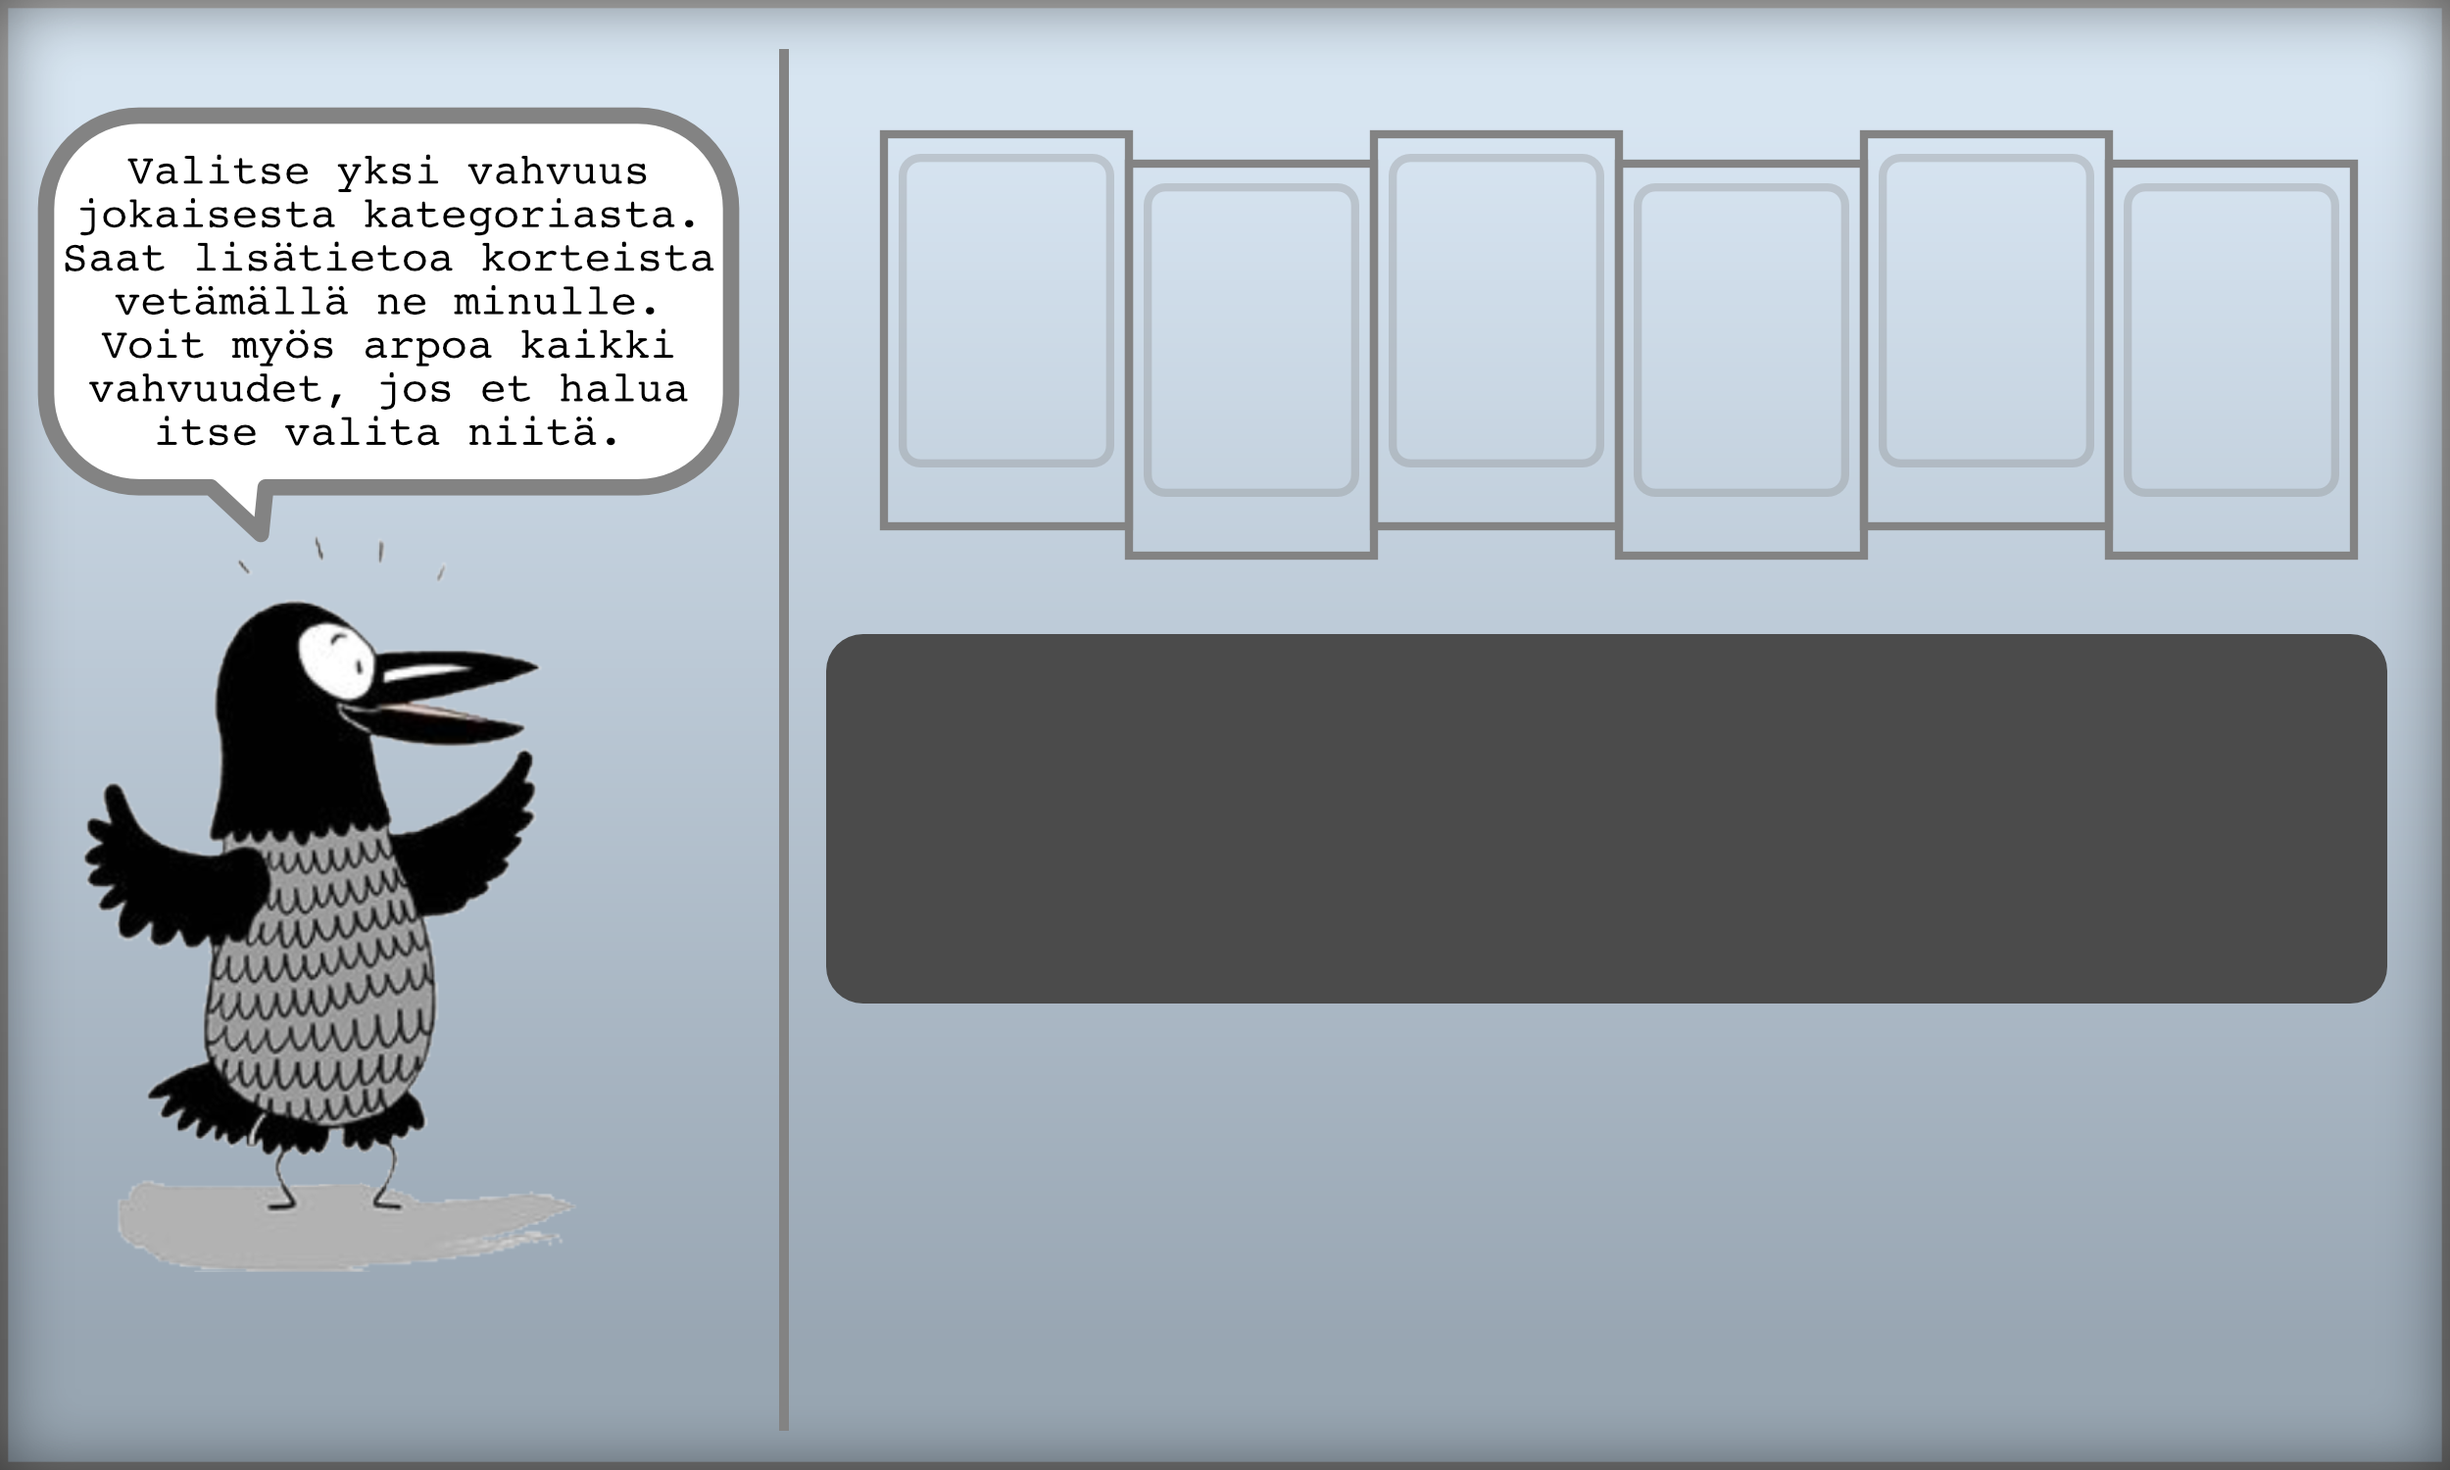
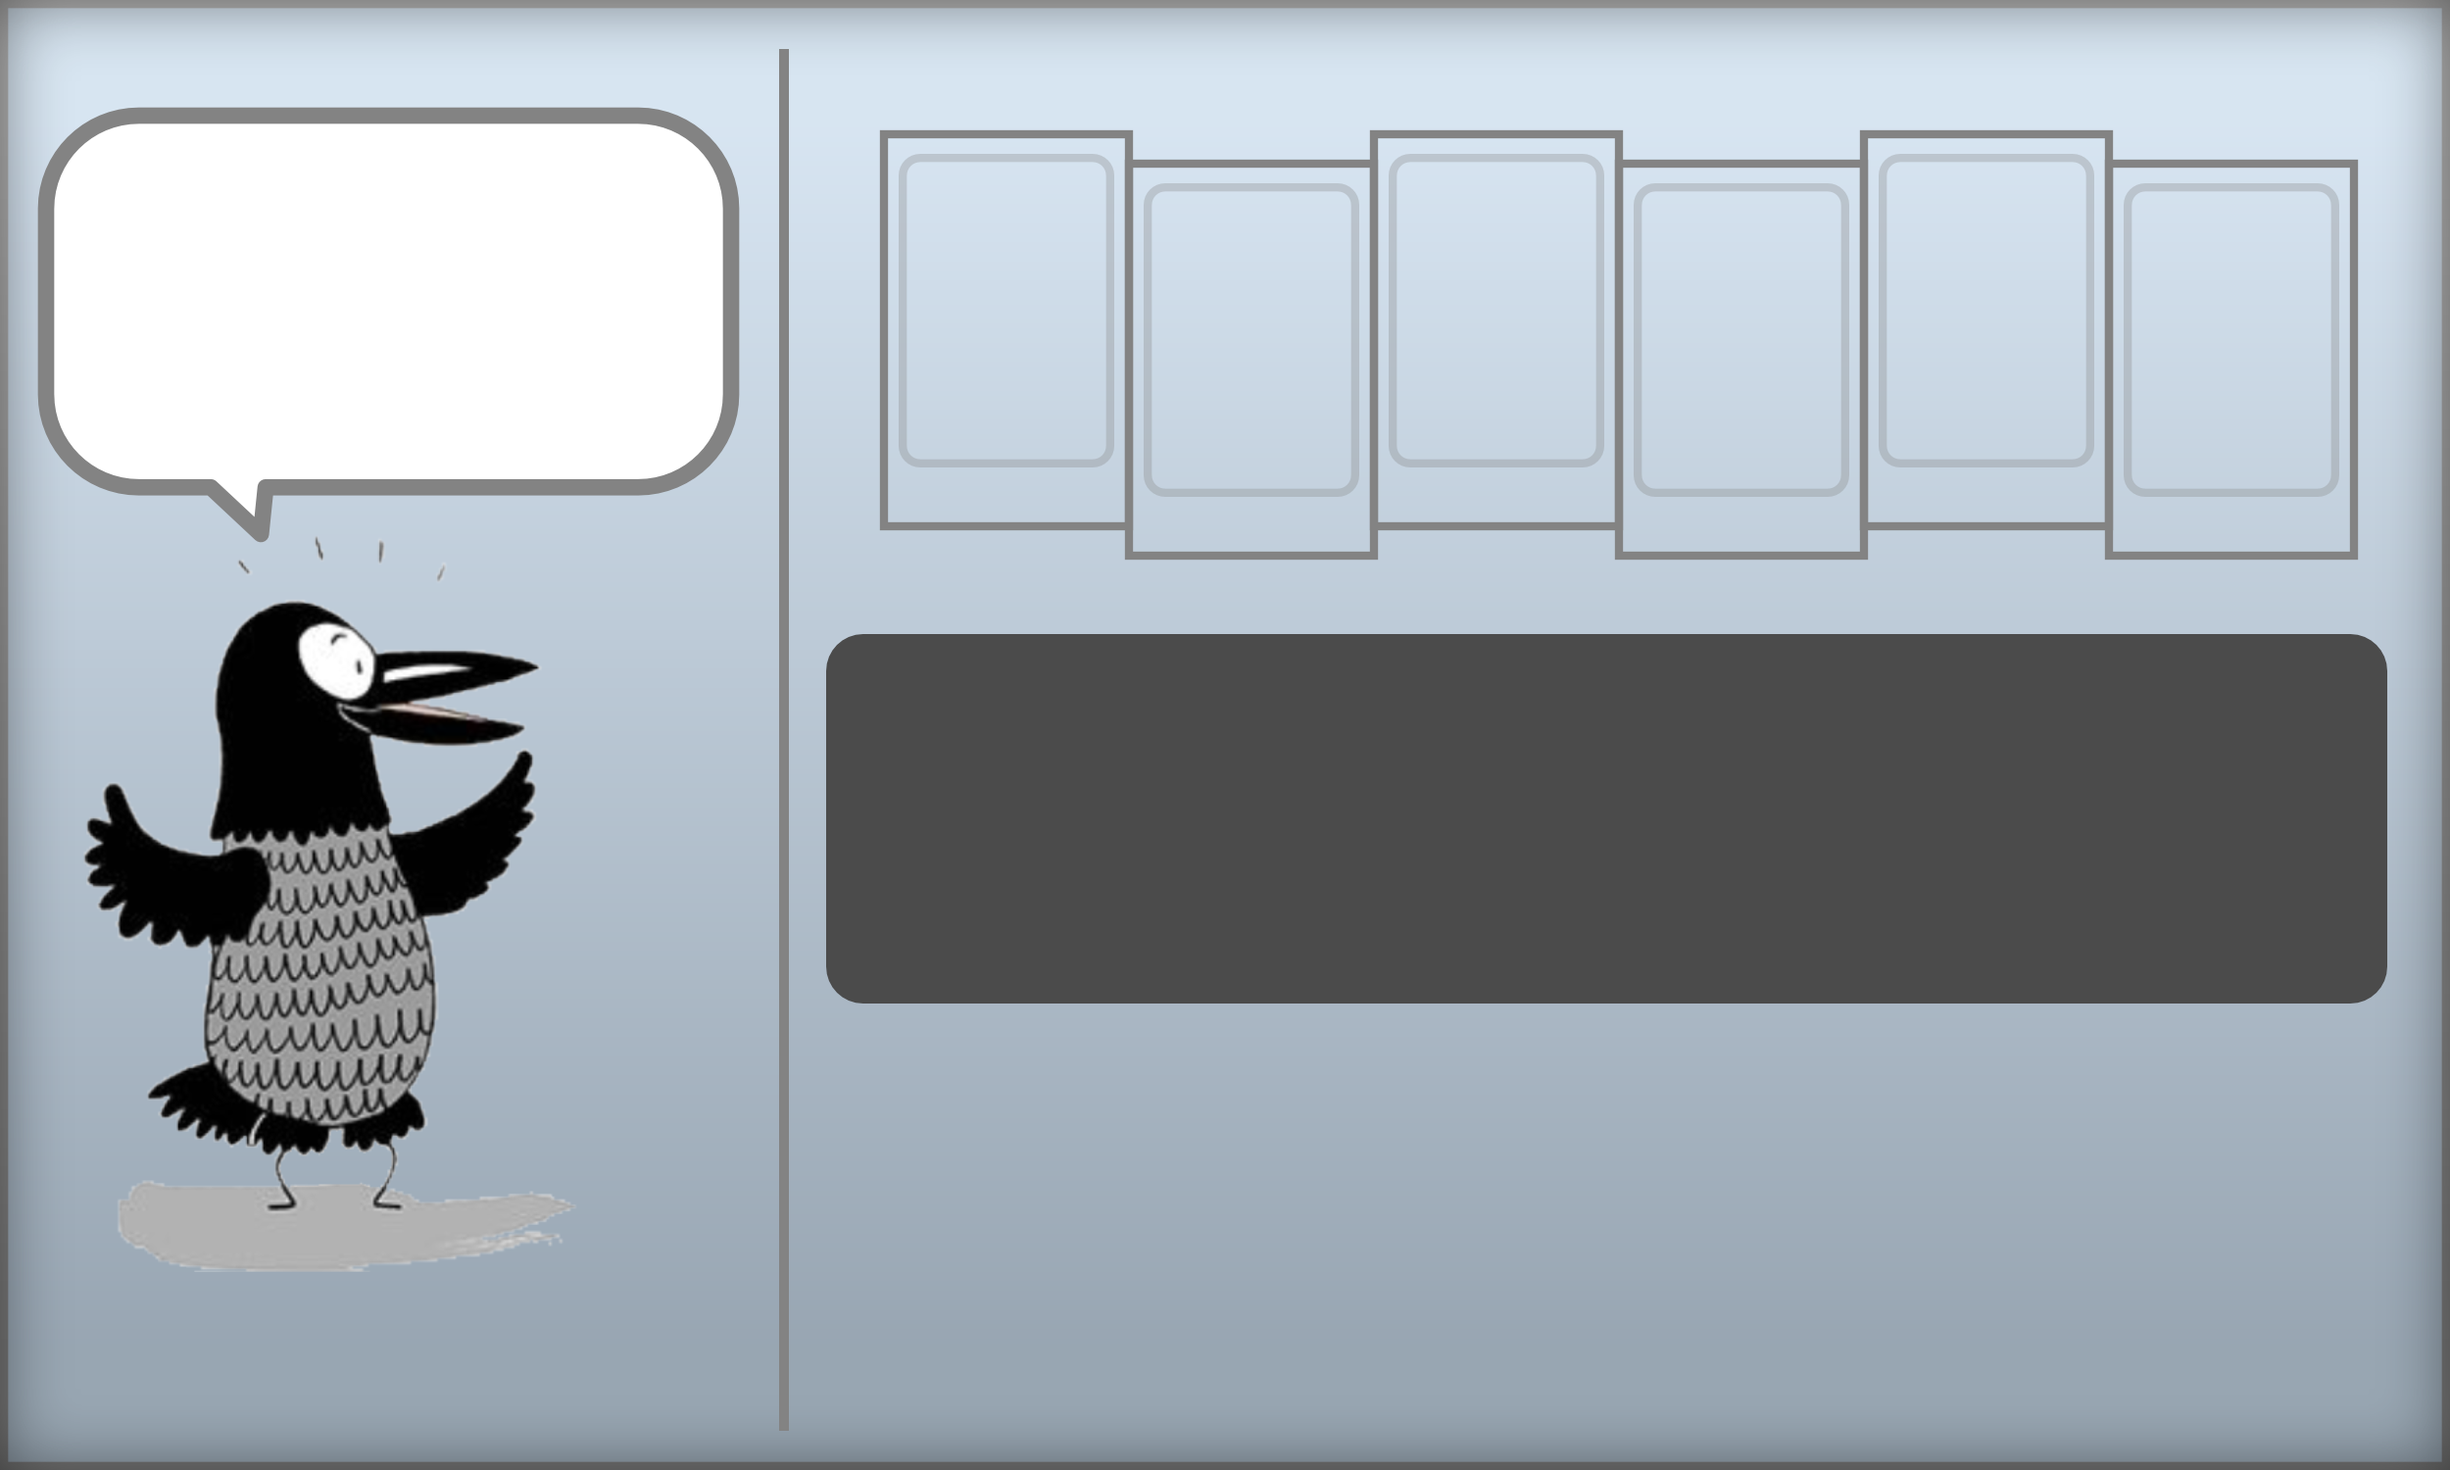
strength infos added

Changed region(s): [[0.0312, 0.092, 0.2808, 0.3067]]

diff --git a/const.py b/const.py
@@ -157,37 +157,37 @@ phrase = [
      "Sinulla on 5 minuuttia aikaa etsiä\njoka kerroksessa. Muista palata takaisin\nhissille ennen kuin on liian myöhäistä!", # 68
      "Tallenna ja\npalaa päävalikkoon", # 69
      "Haluatko palata päävalikkoon?\nTämä pelisuoritus poistetaan.", # 70
-     "", # 71
+     "Valitse yksi vahvuus\n jokaisesta kategoriasta.\nSaat lisätietoa korteista\nvetämällä ne minulle.\nVoit myös arpoa kaikki\nvahvuudet, jos et halua\nitse valita niitä.", # 71
      "", # 72
      "", # 73
      "", # 74
      "", # 75
-     "Luovuuden lennokki",                  # 76: Vahvuuskorttien kuvaukset
-     "Uteliaisuuden suurennuslasi",
-     "Arviointikyvyn kaukoputki",
-     "Oppimisen ilon hehkulamppu",
-     "Näkökulmanottokyvyn nelikopteri",      # 80
-     "Rohkeuden rukkaset",
-     "Sinnikyyden saappaat",
-     "Rehellisyyden radio",
-     "Innostuksen juoksukengät",
-     "Sisukkuuden sapeli",                   # 85
-     "Ystävällisyyden kukkakimppu",
-     "Rakkauden rakettireppu",
-     "Sosiaalisen älykkyyden silmälasit",
-     "Myötätunnon peili",
-     "Reiluuden lapaset",                    # 90
-     "Johtajuuden päähine",
-     "Ryhmätyötaitojen tarjotin",
-     "Anteeksiantavuuden pyyhe",
-     "Vaatimattomuuden viitta",
-     "Harkitsevuuden hörppy",                # 95
-     "Itsesäätelyn suojakilpi",
-     "Kauneuden arvostuksen kamera",
-     "Kiitollisuuden kivet",
-     "Toiveikkuuden taskulamppu",
-     "Huumorintajun räpylät",                # 100
-     "Hengellisyyden kynttilä",
+     "Luovuuden lennokki\nlennättää käyttäjänsä jonkin\nviereisen laatan yli.",                  # 76: Vahvuuskorttien kuvaukset
+     "Uteliaisuuden suurennuslasi\navaa lähellä olevat\nlaatikot ja poistaa ne tieltä.",
+     "Arviointikyvyn kaukoputki\nauttaa näkemään huoneessa\nolevat esineet.",
+     "Oppimisen ilon hehkulamppu\nvalaisee pimeän huoneen\nkokonaan ja pysyvästi.",
+     "Näkökulmanottokyvyn nelikopteri\npaljastaa hetkeksi\nympärillä olevat huoneet.",      # 80
+     "Rohkeuden rukkaset\nantavat käyttäjälleen rohkeuden\ntyöntää muiden kärryjä.",
+     "Sinnikyyden saappaat\nmahdollistavat märän\nlattian yli kävelemisen.",
+     "Rehellisyyden radio\nlähettää aaltoja, jotka\nkääntävät lähellä olevat\ntarjousnäytöt muualle.",
+     "Innostuksen juoksukengät\nantavat lisävauhtia\nkäyttäjänsä askeliin.",
+     "Sisukkuuden sapeli\ntekee lähistöllä olevat\ntarjousnäytöt\ntoimintakyvyttömiksi.",                   # 85
+     "Ystävällisyyden kukkakimppu\nsaa muut shoppailijat\nantamaan tietä.",
+     "Rakkauden rakettireppu\nlatautuu toisille jutellessa,\nja täysillä akuilla\nantaa käyttäjälleen\nhetkellisen lentokyvyn.",
+     "Sosiaalisen älykkyyden silmälasit\nnäyttävät käyttäjälleen lähellä\nolevien kärryjen sisällön,\nsekä näiden omistajat.",
+     "Myötätunnon peili\nauttaa käyttäjäänsä asettumaan\ntoisen shoppailijan asemaan.",
+     "Reiluuden lapaset\nantavat kyvyt työntää toisen\nshoppailijan kärryjä, kunhan\ntältä on ensin kysynyt luvan.",                    # 90
+     "Johtajuuden päähine\npäässään, kykenee pyytämään\nmuita työntämään\nomia kärryään.",
+     "Ryhmätyötaitojen tarjotin\nantaa mahdollisuuden käydä\nvaihtokauppaa muiden kanssa\nheidän löytämistään esineistä.",
+     "Anteeksiantavuuden pyyhe\npyyhkii pois lähellä\nolevat märät lattialaatat.",
+     "Vaatimattomuuden viitta\ntekee käyttäjänsä pienemmäksi,\njolloin voi selvitä\ntiukoistakin tilanteista.",
+     "Harkitsevuuden hörppy\nantaa nautiskelijalleen\naikaa pysähtyä, laatia\nsuunnitelmaa ja odottaa\nvoimien palautumista.",                # 95
+     "Itsesäätelyn suojakilpi\nmahdollistaa viisveisaamisen\nkaikenlaisista tarjouksista.",
+     "Kauneuden arvostuksen kamera\npaljastaa uuden kiinnostavan\nesineen huoneessa, jota et\naiemmin huomannutkaan.",
+     "Kiitollisuuden kivet\nvoi ripotella seikkaillessa\njälkiinsä, jotta paluumatka\nsujuisi mukavammin.",
+     "Toiveikkuuden taskulamppu\nnäyttää tien, vaikka huoneesta\nolisivatkin valot rikki.",
+     "Huumorintajun räpylät\nauttavat silloin, kun kurainen\ntilanne meinaa pilata päivän.",                # 100
+     "Hengellisyyden kynttilä\nantaa käyttäjälleen\nvaloa, kun kaikki muu\nvalo näyttää hävinneen.",
      "Luovuuden lennokki",                   # 102: Vahvuuskorttien otsikot
      "Uteliaisuuden suurennuslasi",
      "Arviointikyvyn kaukoputki",

diff --git a/strengthMenu.py b/strengthMenu.py
@@ -40,8 +40,7 @@ class StrengthMenu():
         self.buttons = [self.backButton,self.randomizeButton,self.readyButton]
         self.activeFinger = None
         self.heldCard = None
-        self.displayCard = -1
-        self.cardInfoText = text.Text(const.gameFont(24), "Info", (0,0),center=True)
+        self.cardInfoText = text.Text(const.gameFont(16), const.phrase[self.lang][71], (0,0),center=True)
 
     def getDeck(self):
         return [self.favorites[0],self.favorites[1],self.favorites[2],self.favorites[3],self.favorites[4],self.favorites[5]]
@@ -64,7 +63,7 @@ class StrengthMenu():
         for deck in self.decks:
             for i, card in enumerate(deck):
                 card[1].center = (screenCenter[0]-123+i*149, screenCenter[1]+38)
-        self.cardInfoText.updatePos((self.strengthBackground.rect.left+40,self.strengthBackground.rect.top+40))
+        self.updateInfo()
         self.updateTextPos()
         self.updateBackground()
 
@@ -72,6 +71,9 @@ class StrengthMenu():
         for i, text in enumerate(self.titles):
             text.updatePos((self.pos[0]+i*112.5-100, self.pos[1]-283 + (i%2)*210))
         self.titles[self.inspectPile].updatePos((self.pos[0]+175, self.pos[1]-53))
+    
+    def updateInfo(self):
+        self.cardInfoText.updatePos((self.strengthBackground.rect.left+178,self.strengthBackground.rect.top+130))
 
     def updateBackground(self):
         self.background = pygame.Surface((2500,1500)).convert_alpha()
@@ -99,8 +101,7 @@ class StrengthMenu():
             mousex,mousey = pygame.mouse.get_pos()
             smallImg = pygame.transform.rotozoom(self.heldCard[0].image,0,0.25)
             screen.blit(smallImg, (mousex-15,mousey-15))
-        if self.displayCard != -1:
-            self.cardInfoText.draw(screen)
+        self.cardInfoText.draw(screen)
 
     # Handle button and card pressing
     def handleEvent(self, event, screenSize):
@@ -127,11 +128,12 @@ class StrengthMenu():
                     self.updateBackground()
                     self.activeFinger = event.id
                     self.heldCard = card
-                else:
-                    self.displayCard = -1
             elif event.type == pygame.FINGERUP and self.activeFinger == event.id:
-                if self.heldCard[1].left > screenSize[0]/3:
-                    self.displayCard = self.heldCard[0].imageNum
+                if event.x < screenSize[0]/3:
+                    self.cardInfoText.setText(const.phrase[self.lang][76+self.heldCard[0].imageNum])
+                else:
+                    self.cardInfoText.setText(const.phrase[self.lang][71])
+                self.updateInfo()
                 self.heldCard = None
                 self.activeFinger = None
             # Track mouse
@@ -141,13 +143,11 @@ class StrengthMenu():
                     self.updateBackground()
                     self.activeFinger = "mouse"
                     self.heldCard = card
-                    #print(f"set text: {self.cardInfoText.lines[0]}")
-                    self.cardInfoText.setText(const.phrase[self.lang][76+self.heldCard[0].imageNum])
-                else:
-                    self.displayCard = -1
             elif event.type == pygame.MOUSEBUTTONUP and self.activeFinger == "mouse":
                 if pygame.mouse.get_pos()[0] < screenSize[0]/3:
-                    print(pygame.mouse.get_pos()[0],screenSize[0]/3)
-                    self.displayCard = self.heldCard[0].imageNum
+                    self.cardInfoText.setText(const.phrase[self.lang][76+self.heldCard[0].imageNum])
+                else:
+                    self.cardInfoText.setText(const.phrase[self.lang][71])
+                self.updateInfo()
                 self.heldCard = None
                 self.activeFinger = None
